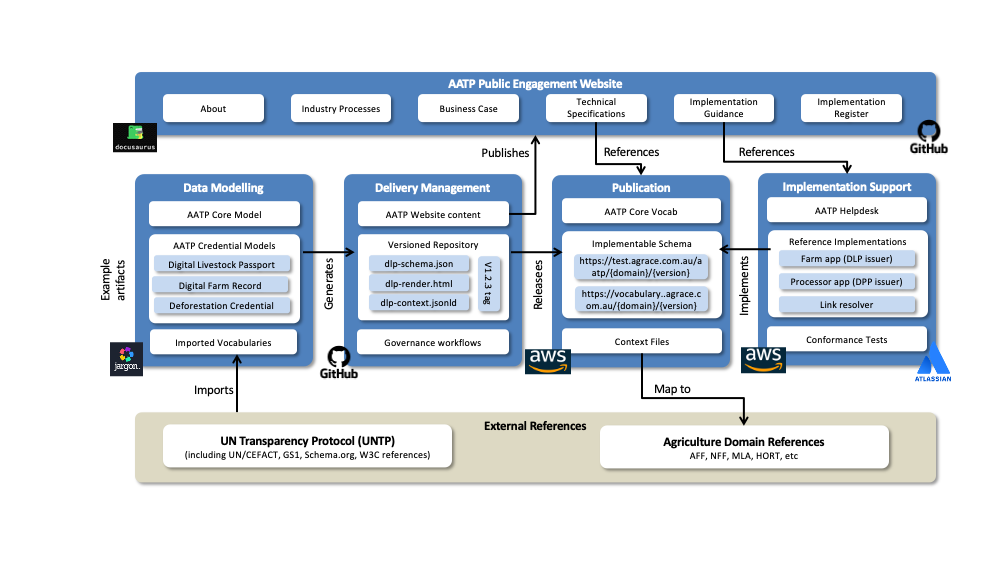
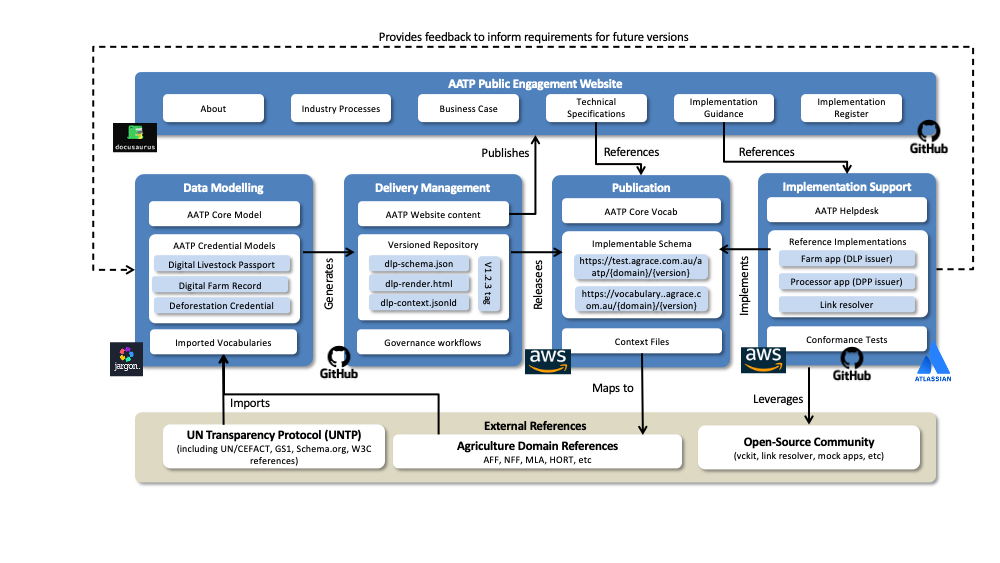
update governance page

diff --git a/website/docs/about/Governance.md b/website/docs/about/Governance.md
@@ -90,12 +90,19 @@ Allowed domains are `aatp-core`, `livestock`, `horticulture`, `grains`.  More do
 
 ## Development Tooling
 
+AATP has a complex set of dependencies, includes a rich set of versioned technical artifacts, and must follow a rigorous and collaborative development process. High qulity tooling is essential to support AATP governance.  The tooling includes
 
+* **Data Modeling** [Jargon](https://jargon.sh/user/aatp) data modeling tool provides business domain expert in AATP development working groups and teams with a tool for developing logical data models and vocabularies that requires relatively little technical expertise. Complex physical artefacts such as JSON schema, JSON-LD context files, and RDF vocabularies are all generated from the Jargon tool using built-in transformation rules. Jargon also provides an easy way to map AATP models to existing external vocabularies.
+* **Delivery Management** [GitHub](https://github.com/) is the worlds most popular open source development platform. It provides version controlled content management, project management, release workflows, and many more features.  It is at the heart of AATP governance. Jargon generated artifacts such as livestock passport schema are pushed to github and then gihub release workflows are used to publish the AATP artefacts.
+* **Publication** Modern digital standards including all data element definitions must be published to permanent, referencable and highly available web locations. The Amazon Cloud [S3 Service](https://aws.amazon.com/s3/) provides an effective and low cost solution which is also used by the UNTP.  Github workflows will automatically publish new releases to AATP test and/or production hosting locations.
+* **Implementation Support** requires a helpdesk management system (implemented using [Jira](https://www.atlassian.com/software/jira)) as well as a suite of references implementations and test services - which are built from open source code in Github and deployed to Amazon infrastructure. Feedback and experience from actual implementations provide valuable imput to close the loop back to the start for the next release of AATP.
+* **AATP Public Engagement** is achieved using a website that is generated from content management in Github and presented for easy navigation using [docusaurus](https://docusaurus.io/)
 
 ![Governance Tooling](Governance_tooling.png)
 
-## Imnplementation Conformity Scope
+This collection of tooling provides AATP with a low cost and highly effective mechanism for long term goverrnance.  
 
+## Imnplementation Conformity Scope
 
 
 ![Conformity Scope](Governance_implementation.png)
